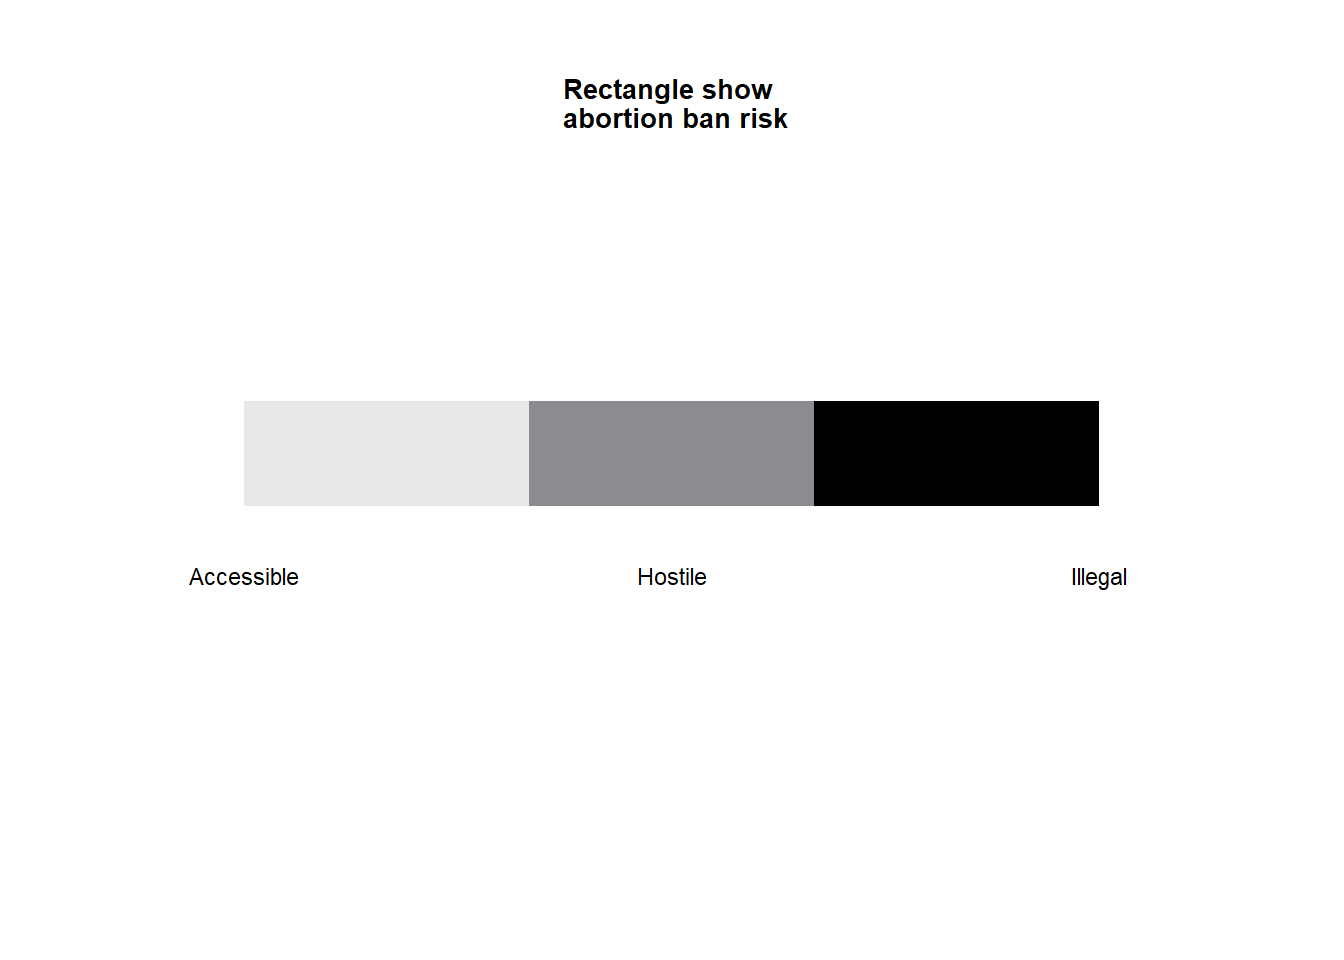
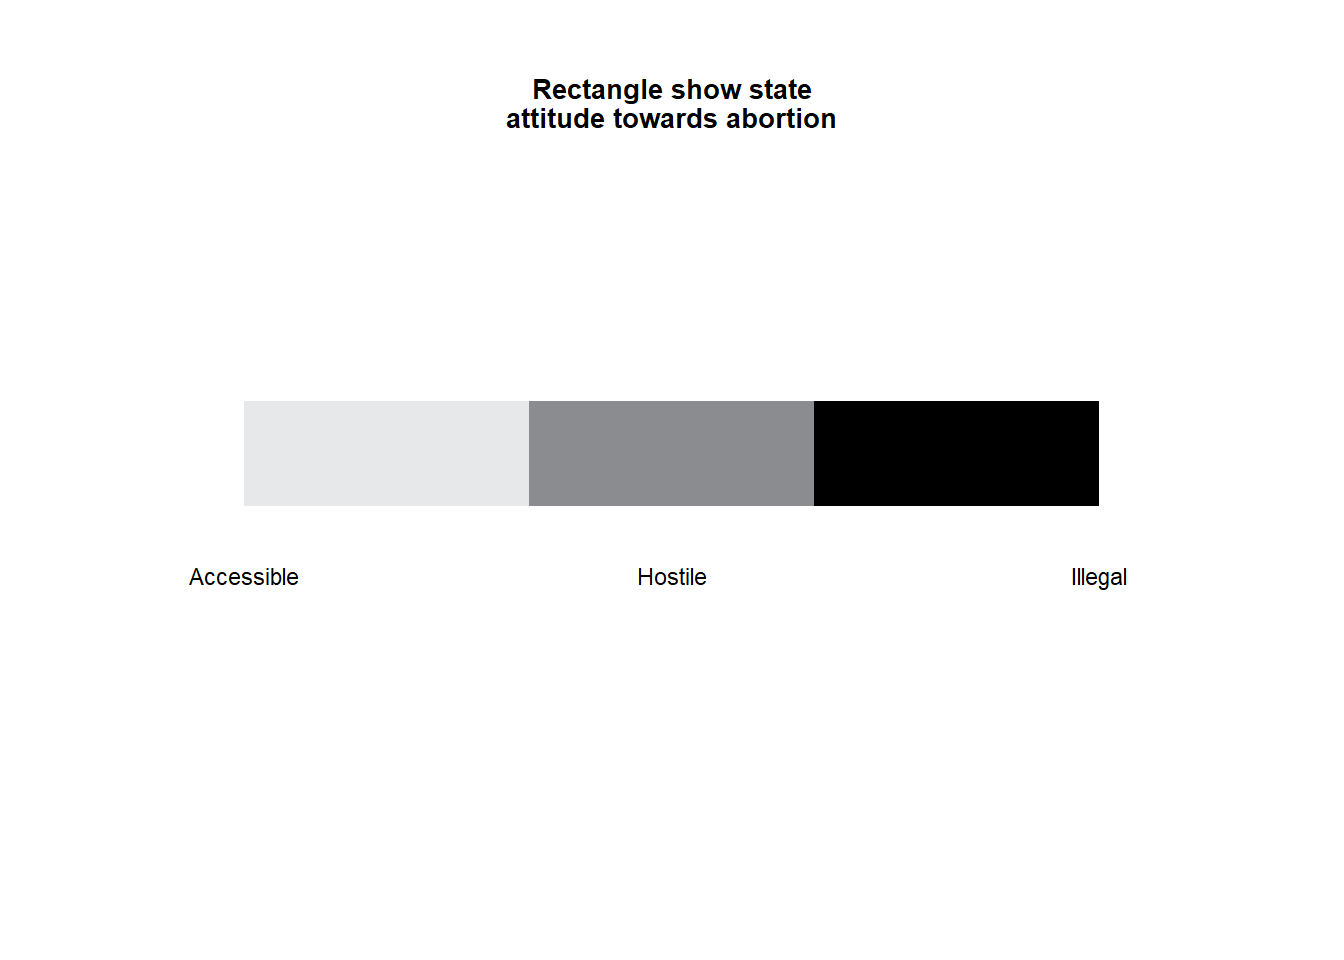
Built site for gh-pages

Changed region(s): [[0.375, 0.0625, 0.625, 0.1562]]

diff --git a/docs/blog/issues/7 - Abortion and Paid Family Leave figure/quarto.html b/docs/blog/issues/7 - Abortion and Paid Family Leave figure/quarto.html
@@ -524,7 +524,7 @@ move the 2 letter state abbrv into the rectangle</li>
 <span id="cb5-34"><a href="#cb5-34" aria-hidden="true" tabindex="-1"></a></span>
 <span id="cb5-35"><a href="#cb5-35" aria-hidden="true" tabindex="-1"></a>title_rect <span class="ot">&lt;-</span> <span class="fu">ggdraw</span>() <span class="sc">+</span> </span>
 <span id="cb5-36"><a href="#cb5-36" aria-hidden="true" tabindex="-1"></a>  <span class="fu">draw_label</span>(</span>
-<span id="cb5-37"><a href="#cb5-37" aria-hidden="true" tabindex="-1"></a>    <span class="st">"Rectangle show </span><span class="sc">\n</span><span class="st"> abortion ban risk"</span>,</span>
+<span id="cb5-37"><a href="#cb5-37" aria-hidden="true" tabindex="-1"></a>    <span class="st">"Rectangle show state</span><span class="sc">\n</span><span class="st">attitude towards abortion"</span>,</span>
 <span id="cb5-38"><a href="#cb5-38" aria-hidden="true" tabindex="-1"></a>    <span class="at">fontface =</span> <span class="st">'bold'</span>,</span>
 <span id="cb5-39"><a href="#cb5-39" aria-hidden="true" tabindex="-1"></a>    <span class="at">x =</span> <span class="fl">0.5</span>,</span>
 <span id="cb5-40"><a href="#cb5-40" aria-hidden="true" tabindex="-1"></a>    <span class="at">hjust =</span> <span class="fl">0.5</span>,</span>
@@ -1081,7 +1081,7 @@ window.document.addEventListener("DOMContentLoaded", function (event) {
 <span id="cb9-262"><a href="#cb9-262" aria-hidden="true" tabindex="-1"></a></span>
 <span id="cb9-263"><a href="#cb9-263" aria-hidden="true" tabindex="-1"></a>title_rect <span class="ot">&lt;-</span> <span class="fu">ggdraw</span>() <span class="sc">+</span> </span>
 <span id="cb9-264"><a href="#cb9-264" aria-hidden="true" tabindex="-1"></a>  <span class="fu">draw_label</span>(</span>
-<span id="cb9-265"><a href="#cb9-265" aria-hidden="true" tabindex="-1"></a>    <span class="st">"Rectangle show </span><span class="sc">\n</span><span class="st"> abortion ban risk"</span>,</span>
+<span id="cb9-265"><a href="#cb9-265" aria-hidden="true" tabindex="-1"></a>    <span class="st">"Rectangle show state</span><span class="sc">\n</span><span class="st">attitude towards abortion"</span>,</span>
 <span id="cb9-266"><a href="#cb9-266" aria-hidden="true" tabindex="-1"></a>    <span class="at">fontface =</span> <span class="st">'bold'</span>,</span>
 <span id="cb9-267"><a href="#cb9-267" aria-hidden="true" tabindex="-1"></a>    <span class="at">x =</span> <span class="fl">0.5</span>,</span>
 <span id="cb9-268"><a href="#cb9-268" aria-hidden="true" tabindex="-1"></a>    <span class="at">hjust =</span> <span class="fl">0.5</span>,</span>
@@ -1205,7 +1205,7 @@ window.document.addEventListener("DOMContentLoaded", function (event) {
 <span id="cb9-392"><a href="#cb9-392" aria-hidden="true" tabindex="-1"></a>       <span class="at">height =</span> <span class="dv">8</span>,</span>
 <span id="cb9-393"><a href="#cb9-393" aria-hidden="true" tabindex="-1"></a>       <span class="at">width =</span> <span class="dv">8</span></span>
 <span id="cb9-394"><a href="#cb9-394" aria-hidden="true" tabindex="-1"></a>       )</span>
-<span id="cb9-395"><a href="#cb9-395" aria-hidden="true" tabindex="-1"></a></span>
+<span id="cb9-395"><a href="#cb9-395" aria-hidden="true" tabindex="-1"></a> </span>
 <span id="cb9-396"><a href="#cb9-396" aria-hidden="true" tabindex="-1"></a></span>
 <span id="cb9-397"><a href="#cb9-397" aria-hidden="true" tabindex="-1"></a><span class="in">```</span></span>
 <span id="cb9-398"><a href="#cb9-398" aria-hidden="true" tabindex="-1"></a></span>

diff --git a/docs/blog/index.html b/docs/blog/index.html
@@ -221,7 +221,7 @@ ul.task-list{list-style: none;}
     </div>
 </div>
 <div class="list quarto-listing-default">
-<div class="quarto-post image-right" data-index="0" data-categories="visualization,infographic" data-listing-date-sort="1660104000000" data-listing-file-modified-sort="1660316856097" data-listing-reading-time-sort="11.55">
+<div class="quarto-post image-right" data-index="0" data-categories="visualization,infographic" data-listing-date-sort="1660104000000" data-listing-file-modified-sort="1660320923141" data-listing-reading-time-sort="11.55">
 <div class="thumbnail">
 <p><a href="../../docs/blog/issues/7 - Abortion and Paid Family Leave figure/quarto.html"> <img src="../../docs/blog/issues/7 - Abortion and Paid Family Leave figure/images/paste-24B14202.png" class="thumnail-image"> </a></p>
 </div>
